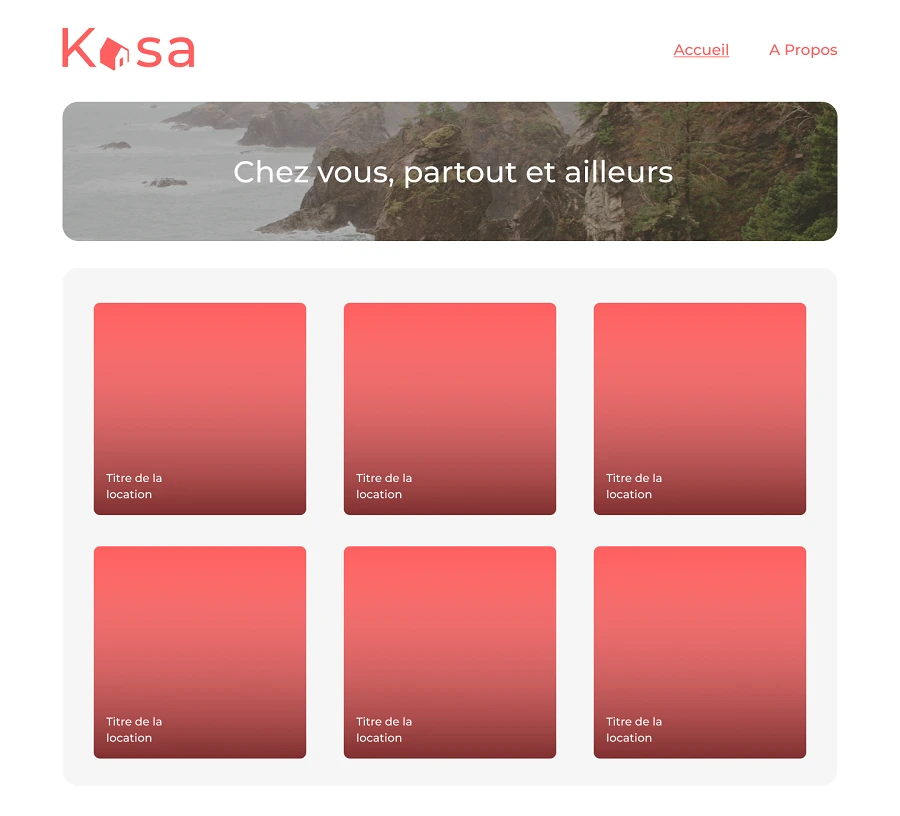
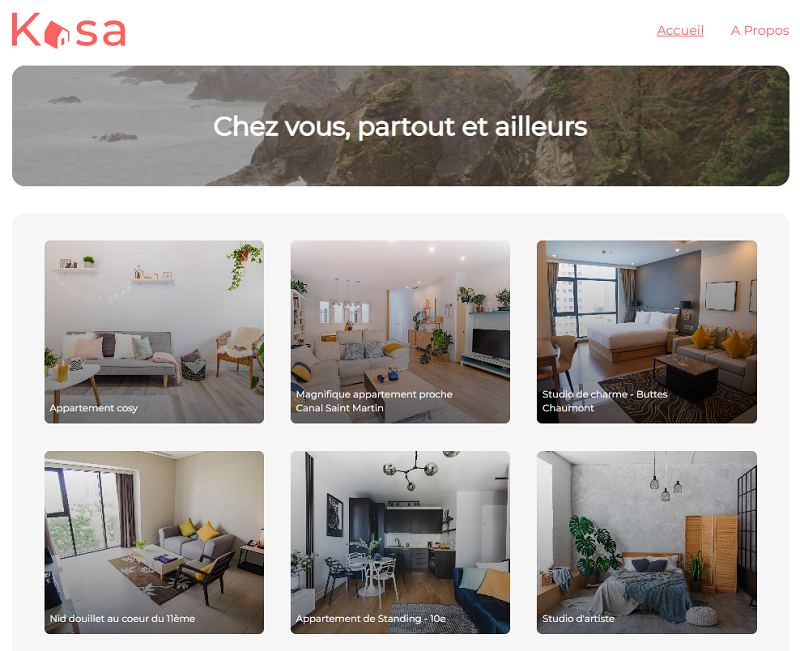
Changed the kasa image + added the option of clicking on the image for the github link

diff --git a/src/components/carousel/index.jsx b/src/components/carousel/index.jsx
@@ -40,6 +40,14 @@ export const Carousel = () => {
     }
   };
 
+  const openGithubLink = (link, event) => {
+    if (event.type === "click" ||
+    (event.type === "keydown" && event.key === "Enter") 
+    ){
+      window.open(link, "_blank");
+    }
+  };
+
   return (
     <div className="flex justify-center mt-10 p-5">
       <div className="flex relative items-center gap-3 justify-center px-1">
@@ -70,13 +78,15 @@ export const Carousel = () => {
                   {currentProject.name}
                 </p>
                 <p className="text-base w-3/5">{currentProject.description}</p>
-                <Link href={currentProject.githubLink} target="_blank">
                   <Image
                     className="w-7 h-7 cursor-pointer flex-1"
                     src={github}
                     alt="logo github"
+                    tabIndex={0}
+                    role="link"
+                    onClick={(event) => openGithubLink(currentProject.githubLink, event)}
+                    onKeyDown={(event) => openGithubLink(currentProject.githubLink, event)}
                   />
-                </Link>
               </div>
             </div>
           </div>
@@ -91,8 +101,11 @@ export const Carousel = () => {
               objectFit: "cover",
               objectPosition: "top",
             }}
-            className="rounded-3xl"
+            className="rounded-3xl cursor-pointer"
             alt={`project ${currentProject.name}`}
+            tabIndex={0}
+            onClick={(event) => openGithubLink(currentProject.githubLink, event)}
+            onKeyDown={(event) => openGithubLink(currentProject.githubLink, event)}
           />
         </div>
         <div className="w-[280px] h-[420px] blur-sm ml-[-60px] shadow-xl brightness-50 max-xl:w-[180px] max-lg:w-[150px] max-[965px]:hidden">

diff --git a/src/components/project/index.jsx b/src/components/project/index.jsx
@@ -6,19 +6,20 @@ import { motion } from "framer-motion";
 export const Project = ({ name, image, alt, description, href }) => {
   return (
     <div className="rounded-2xl flex justify-center">
-      <div className="relative w-[90%] min-h-[350px] shadow-xl  ">
+      <div className="relative w-[90%] h-[500px] max-[500px]:h-[400px] max-[425px]:h-[350px] shadow-xl">
         <Image
-          className="rounded-2xl w-full"
+          className="rounded-2xl w-full cursor-pointer"
           style={{
             width: "100%",
             height: "100%",
             objectFit: "cover",
             objectPosition: "top",
           }}
-          width={500}
-          height={500}
+          width={700}
+          height={700}
           src={image}
           alt={alt}
+          onClick={() => window.open(href, "_blank")}
         />
 
         <div className="absolute bottom-0 w-full h-auto bg-gradient-to-b from-secondary to-third rounded-b-xl">
@@ -26,7 +27,7 @@ export const Project = ({ name, image, alt, description, href }) => {
             <div className="flex items-center justify-between">
               <p className="font-bold text-lg max-[600px]:text-sm">{name}</p>
               <motion.a
-                className="w-7 max-[600px]:w-6"
+                className="w-7 max-[600px]:w-5"
                 href={href}
                 target="_blank"
                 whileTap={{ scale: 0.08 }}

diff --git a/src/components/project-list/index.jsx b/src/components/project-list/index.jsx
@@ -6,7 +6,7 @@ export const ProjectList = () => {
   const projects = data.carrousel.projects;
 
   return (
-    <div className="flex flex-col h-full gap-20 mt-10">
+    <div className="flex flex-col h-full gap-20 mt-10 max-sm:gap-10">
       {projects.map((project) => (
         <div key={project.id}>
           <Project
